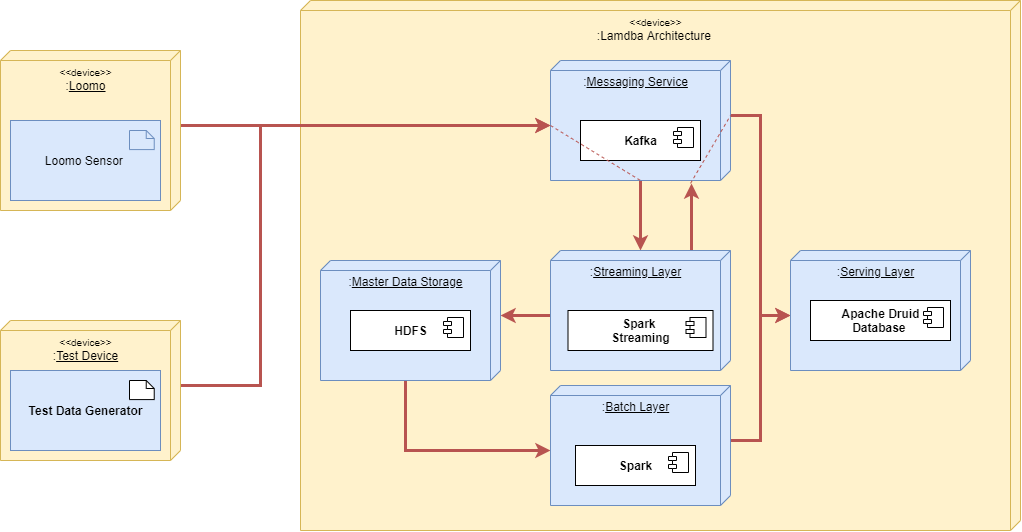
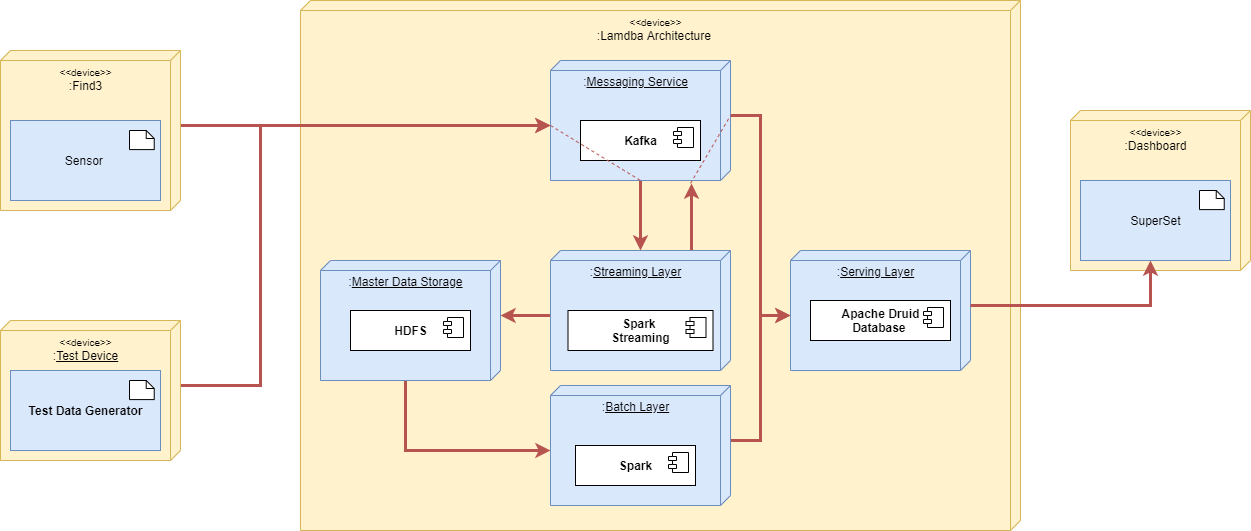
updated images

diff --git a/documentation/README.md b/documentation/README.md
@@ -6,23 +6,28 @@ Introduction and Goals
 In "Internet of Things" setups large amounts of data are generate from sensors and communication. The large amount of data results in a high complexity which makes the data hard to handle and complex to analyse. Nathan Marz developed the lambda architecture to reduce the rising complexity. The lambda architecture duplicates the incoming data onto 2 path. The Batch layer and speed layer, this reduces the complexity of each path. The architecture is scalable and distributed which makes a good messenger important. We compared the wide spread Apache Kafka with new Apache Pulsar to find the differences between the messengers. 
 (TODO: Redo)
 
-Requirements Overview
----------------------
-    - Design and build a Lambda architecture
-        - Batch layer
-        - Speed layer
-        - Serving layer
+Requirements Overview  
+--------------------
 
-Quality Goals
--------------
-- working Lambda architecture
+- Communication
+    - Kafka
+- Batch layer
+    - HDFS      
+    - Spark
+- Speed layer
+    - Spark Streaming
+    - Apache Druid
+- Serving layer
+    - Apache Druid
+- Dashboard
+    - SuperSet
 
 Stakeholders
 ------------
 
-| Role/Name       | Description                         |
-|-----------------|-------------------------------------|
-| Mike Wüstenberg | Documentation, Research, Programing |
+| Role/Name | Description                         |
+|-----------|-------------------------------------|
+| Mike W.   | Documentation, Research, Programing |
 
 <sub>Table 1. Stakeholder</sub>
 
@@ -53,12 +58,12 @@ Business Context
 
 <sub>Table 3. Business Context</sub>
 
-Technical Context
------------------
+   Technical Context    
+-----------------------
+  
 ![](https://raw.githubusercontent.com/Akardian/lambda-architecture-for-distributed-mobile-sensor/master/images/2-1TechnicalContext.png)
 
 <sub>Figure 2. Technical Context</sub>
-TODO: Output Data from Serving Layer
 
 | Component           | Input                                    | Output                               |
 |---------------------|------------------------------------------|--------------------------------------|
